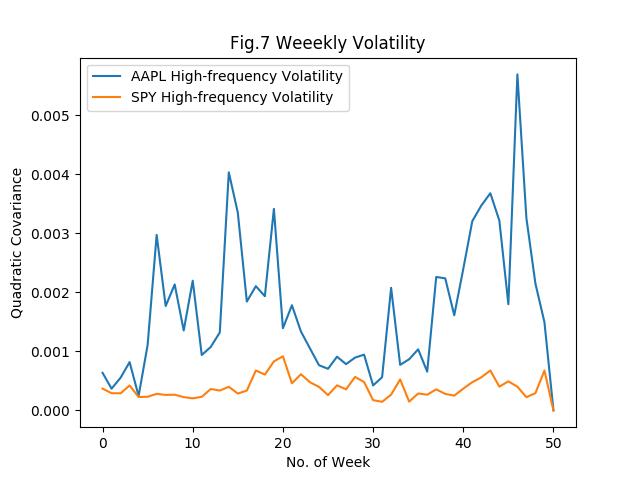
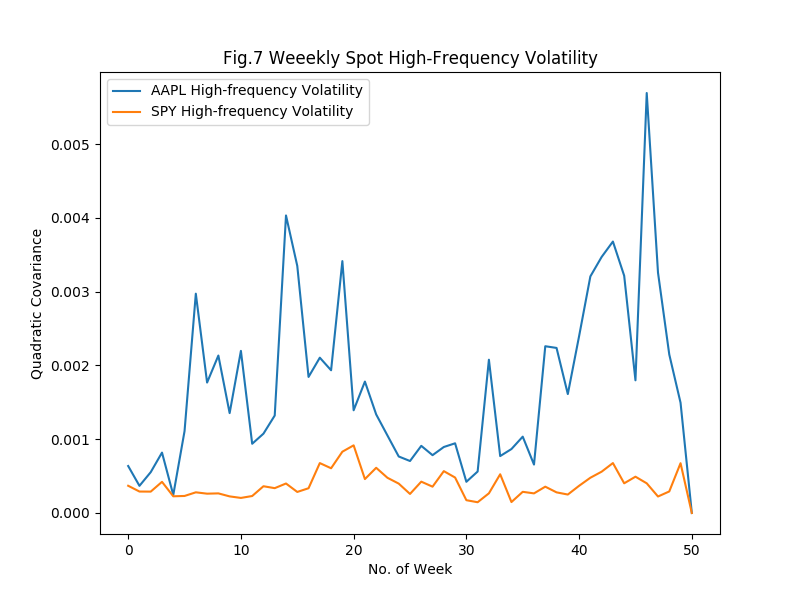
Fix jump's estimations.

diff --git a/high_frequency.py b/high_frequency.py
@@ -40,10 +40,10 @@ def main():
         WeeklySpotVol['SPY'][idx] = np.sum(WeeklyChunkSPY)
         WeeklySpotVol['AAPL'][idx] = np.sum(WeeklyChunkAAPL)
 
-    plt.figure()
+    plt.figure(figsize=(8, 6))
     plt.plot(WeeklySpotVol['AAPL'],label='AAPL High-frequency Volatility')
     plt.plot(WeeklySpotVol['SPY'], label='SPY High-frequency Volatility')
-    plt.title('Fig.7 Weeekly Volatility')
+    plt.title('Fig.7 Weeekly Spot High-Frequency Volatility')
     plt.ylabel('Quadratic Covariance')
     plt.xlabel('No. of Week')
     plt.legend()
@@ -52,7 +52,6 @@ def main():
     print('{0}\n[INFO] Finished calculating high-frequency weekly volatilities.'.
         format('=' * 20 + NOW() + '=' * 20))
 
-    #------------part 2, qeustion 4: jump estimation-----------------
     N_DailyObs = N_WeeklyObs/5
     VolLenDaily = len(SPY)//N_DailyObs+1
     DailySpotVol = dict()
@@ -69,10 +68,13 @@ def main():
         DailySpotVol['SPY'][idx] = np.sum(DailyChunkSPY)
         DailySpotVol['AAPL'][idx] = np.sum(DailyChunkAAPL)
 
-    plt.figure()
+    DailySpotVol['SPY'] /= np.sqrt(N_DailyObs)
+    DailySpotVol['AAPL'] /= np.sqrt(N_DailyObs)
+
+    plt.figure(figsize=(8, 6))
     plt.plot(DailySpotVol['AAPL'],label='AAPL High-frequency Volatility')
     plt.plot(DailySpotVol['SPY'], label='SPY High-frequency Volatility')
-    plt.title('Fig.8 Daily Spot Volatility')
+    plt.title('Fig.8 Daily Spot High-Frequency Volatility')
     plt.ylabel('Quadratic Covariance')
     plt.xlabel('No. of Day')
     plt.legend()
@@ -80,6 +82,73 @@ def main():
 
     print('{0}\n[INFO] Finished calculating high-frequency daily volatilities.'.
         format('=' * 20 + NOW() + '=' * 20))
+
+    # ------------part 2, qeustion 4: jump estimation-----------------
+    Delta = 1/float(N_DailyObs)
+
+    Thresholds = dict()
+    Thresholds['AAPL'] = np.array([0.0] * len(SPY))
+    Thresholds['SPY'] = np.array([0.0] * len(SPY))
+
+    AbsDelta = dict()
+    AbsDelta['AAPL'] = np.abs(DeltaAAPL)
+    AbsDelta['SPY'] = np.abs(DeltaSPY)
+
+    for idx in range(VolLenDaily):
+        if idx + N_DailyObs > len(SPY):
+            DailyChunkSPY = AbsDelta['SPY'][idx * N_DailyObs:]
+            ThisBiPowerSPY = np.sum(DailyChunkSPY[1:]*DailyChunkSPY[:-1]) * np.sqrt(2/np.pi)
+            ThisSigmaSPY = ThisBiPowerSPY/np.sqrt(len(SPY)-idx*N_DailyObs)
+            ThisThresholdSPY = 3*ThisSigmaSPY*Delta**0.49
+
+            DailyChunkAAPL= AbsDelta['AAPL'][idx * N_DailyObs:]
+            ThisBiPowerAAPL= np.sum(DailyChunkAAPL[1:] * DailyChunkAAPL[:-1]) * np.sqrt(2 / np.pi)
+            ThisSigmaAAPL= ThisBiPowerAAPL/ np.sqrt(len(SPY)-idx*N_DailyObs)
+            ThisThresholdAAPL= 3 * ThisSigmaAAPL* Delta ** 0.49
+
+            Thresholds['SPY'][idx * N_DailyObs:] = ThisThresholdSPY
+            Thresholds['AAPL'][idx * N_DailyObs:] = ThisThresholdAAPL
+        else:
+            DailyChunkSPY = AbsDelta['SPY'][idx * N_DailyObs:(idx + 1) * N_DailyObs]
+            ThisBiPowerSPY = np.sum(DailyChunkSPY[1:] * DailyChunkSPY[:-1]) * np.sqrt(2 / np.pi)
+            ThisSigmaSPY = np.sqrt(ThisBiPowerSPY / N_DailyObs)
+            ThisThresholdSPY = 3 * ThisSigmaSPY
+
+            DailyChunkAAPL = AbsDelta['AAPL'][idx * N_DailyObs:(idx + 1) * N_DailyObs]
+            ThisBiPowerAAPL = np.sum(DailyChunkAAPL[1:] * DailyChunkAAPL[:-1]) * np.sqrt(2 / np.pi)
+            ThisSigmaAAPL = np.sqrt(ThisBiPowerAAPL / N_DailyObs)
+            ThisThresholdAAPL = 3 * ThisSigmaAAPL
+
+            Thresholds['SPY'][idx * N_DailyObs:(idx + 1) * N_DailyObs] = ThisThresholdSPY
+            Thresholds['AAPL'][idx * N_DailyObs:(idx + 1) * N_DailyObs] = ThisThresholdAAPL
+
+    Jumps = dict()
+    Jumps['SPY'] = np.zeros_like(DeltaSPY)
+    JumpIndexSPY = AbsDelta['SPY'] > np.abs(Thresholds['SPY'][1:])
+    Jumps['SPY'][JumpIndexSPY] = DeltaSPY[JumpIndexSPY]
+
+    Jumps['AAPL'] = np.zeros_like(DeltaAAPL)
+    JumpIndexAAPL = AbsDelta['AAPL'] > np.abs(Thresholds['AAPL'][1:])
+    Jumps['AAPL'][JumpIndexAAPL] = DeltaAAPL[JumpIndexAAPL]
+
+    DeltaReturns = dict()
+    DeltaReturns['SPY'] = DeltaSPY
+    DeltaReturns['AAPL'] = DeltaAAPL
+
+    plt.figure(figsize=(8, 6))
+    f, (ax1, ax2) = plt.subplots(2, sharex=True, sharey=True)
+    for idy, axis in enumerate([ax1, ax2]):
+        Key = Jumps.keys()[idy]
+        thisJumpSerie = Jumps[Key]
+        thisDeltaReturnserie = DeltaReturns[Key]
+        XAxis = range(len(thisDeltaReturnserie))
+        axis.scatter(x=XAxis, y=thisDeltaReturnserie, s=0.1, label='Spot Volitility for {}'.format(Key))
+        axis.scatter(x=XAxis, y=thisJumpSerie, s=1, label='Estimated Jumps for {}'.format(Key))
+        axis.legend()
+
+    ax1.set_title('Fig.9 High-Frequency DeltaReturns and Estimated Jumps')
+    plt.xlabel('No. of Obeservations')
+    plt.savefig('Fig_9.png')
 
 
 if __name__ == '__main__':
